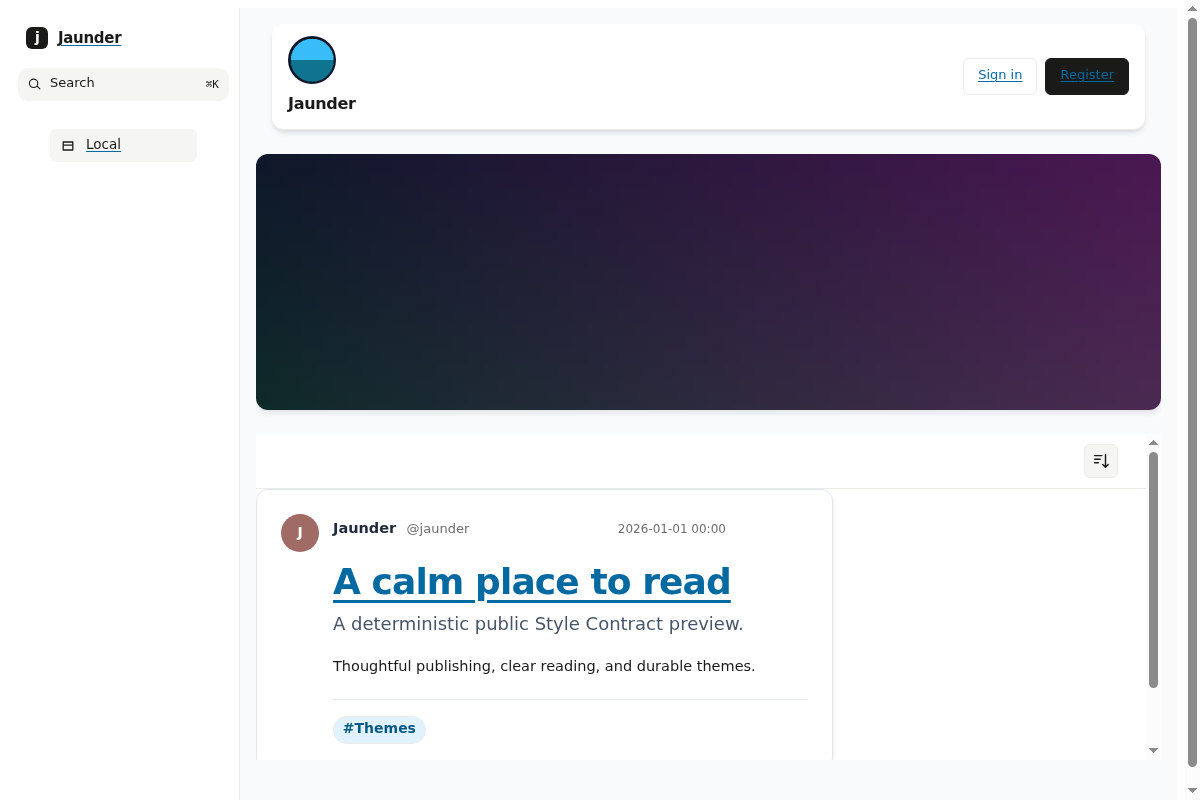
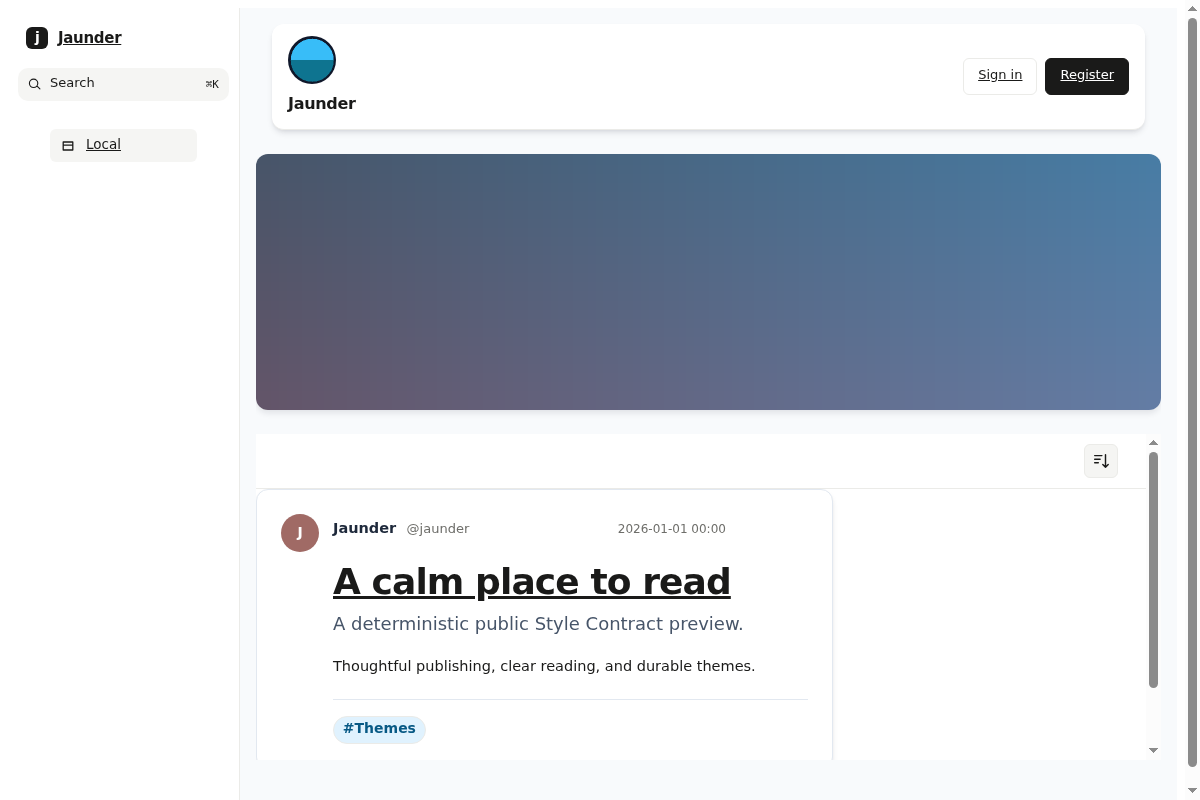
fix: preserve public control contrast

Changed region(s): [[0.2158, 0.1875, 0.9867, 0.5312], [0.2775, 0.7188, 0.6167, 0.7812], [0.8942, 0.0938, 0.925, 0.125]]

diff --git a/style.css b/style.css
@@ -1,1 +1,1 @@
-@font-face{font-family:TailwindInter;src:url(assets/inter-latin-regular.woff2);font-display:swap}:root{color:#1e293b;background:#f8fafc;min-height:100vh;font-family:TailwindInter;line-height:1.6}a{color:#0369a1;text-underline-offset:.16em;text-decoration-thickness:.08em}a:hover{color:#075985}a:focus-visible,button:focus-visible{outline-offset:3px;outline:3px solid #0284c7}[data-jaunder-part=masthead]{box-sizing:border-box;background:#fff;border-radius:.75rem;align-items:center;gap:1rem;width:min(100% - 2rem,64rem);min-height:4.5rem;margin:1rem auto 0;padding:.75rem 1rem;display:flex;box-shadow:0 4px 6px -1px #0f172a1a,0 2px 4px -2px #0f172a1a}[data-jaunder-part=logo]{object-fit:cover;border-radius:9999px;flex:none;width:3rem;height:3rem}[data-jaunder-part=site-title]{color:#0f172a;letter-spacing:-.025em;font-size:1.5rem;font-weight:700}[data-jaunder-part=primary-navigation]{flex-wrap:wrap;gap:.5rem 1rem;width:min(100% - 2rem,64rem);margin:.75rem auto;padding:0 1rem;display:flex}[data-jaunder-part=primary-navigation] a{font-size:.9375rem;font-weight:600}[data-jaunder-part=main]{box-sizing:border-box;width:min(100% - 2rem,64rem);margin:0 auto 3rem}[data-jaunder-part=header-image]{object-fit:cover;border-radius:.75rem;width:100%;max-height:16rem;margin:1.5rem 0;display:block;box-shadow:0 4px 6px -1px #0f172a1a}[data-jaunder-part=post-list]{gap:1.5rem;display:grid}[data-jaunder-part=post]{background:#fff;border:1px solid #e2e8f0;border-radius:.75rem;padding:1.5rem;overflow:visible;box-shadow:0 4px 6px -1px #0f172a1a,0 2px 4px -2px #0f172a1a}[data-jaunder-part=post-header]{color:#475569;flex-wrap:wrap;align-items:center;gap:.35rem .65rem;font-size:.875rem;display:flex}[data-jaunder-part=avatar]{object-fit:cover;border-radius:9999px;width:2rem;height:2rem}[data-jaunder-part=author-name]{color:#1e293b;font-weight:700}[data-jaunder-part=post-title]{color:#1e293b;letter-spacing:-.025em;margin:1rem 0 .5rem;font-size:clamp(1.75rem,4vw,2.25rem);line-height:1.15}[data-jaunder-part=post-summary]{color:#475569;margin:0 0 1rem;font-size:1.125rem}[data-jaunder-part=post-body]{color:#334155}[data-jaunder-part=post-body] :is(h1,h2,h3){color:#1e293b;margin:1.5em 0 .6em;line-height:1.25}[data-jaunder-part=post-body] :is(p,ul,ol,blockquote,pre){margin:1em 0}[data-jaunder-part=post-body] blockquote{color:#475569;border-left:.25rem solid #94a3b8;margin-left:0;padding-left:1rem}[data-jaunder-part=post-body] :is(code,pre){color:#0f172a;background:#e2e8f0;border-radius:.375rem;font-family:ui-monospace,monospace}[data-jaunder-part=post-body] code{padding:.15em .3em}[data-jaunder-part=post-body] pre{padding:1rem;overflow-x:auto}[data-jaunder-part=post-footer]{border-top:1px solid #e2e8f0;margin-top:1.25rem;padding-top:1rem}[data-jaunder-part=tag-list]{flex-wrap:wrap;gap:.5rem;margin:0;padding:0;list-style:none;display:flex}[data-jaunder-part=tag]{color:#075985;background:#e0f2fe;border-radius:9999px;padding:.2rem .55rem;font-size:.875rem;font-weight:600;display:inline-block}[data-jaunder-part=continuation]{color:#fff;cursor:pointer;background:#0284c7;border:0;border-radius:.5rem;justify-self:start;padding:.6rem 1rem;font-family:TailwindInter;font-weight:700}[data-jaunder-part=continuation]:hover{background:#0369a1}@media (min-width:48rem){[data-jaunder-part=post-list]{grid-template-columns:minmax(0,2fr) minmax(15rem,1fr)}[data-jaunder-part=post],[data-jaunder-part=continuation]{grid-column:1}}@media (prefers-color-scheme:dark){:root{color:#e2e8f0;background:#1f2937}a{color:#7dd3fc}a:hover{color:#bae6fd}[data-jaunder-part=masthead],[data-jaunder-part=post]{color:#e2e8f0;background:#374151;border-color:#4b5563}[data-jaunder-part=site-title],[data-jaunder-part=author-name]{color:#e2e8f0}[data-jaunder-part=post-title],[data-jaunder-part=post-title] a,[data-jaunder-part=post-body] :is(h1,h2,h3){color:#f1f5f9}[data-jaunder-part=post-summary],[data-jaunder-part=post-header]{color:#cbd5e1}[data-jaunder-part=post-body]{color:#d1d5db}[data-jaunder-part=post-body] :is(code,pre){color:#e2e8f0;background:#0f172a}[data-jaunder-part=tag]{color:#bae6fd;background:#164e63}}
+@font-face{font-family:TailwindInter;src:url(assets/inter-latin-regular.woff2);font-display:swap}:root{color:#1e293b;background:#f8fafc;min-height:100vh;font-family:TailwindInter;line-height:1.6}[data-jaunder-part=primary-navigation] a,[data-jaunder-part=post] a{color:#0369a1;text-underline-offset:.16em;text-decoration-thickness:.08em}[data-jaunder-part=primary-navigation] a:hover,[data-jaunder-part=post] a:hover{color:#075985}a:focus-visible,button:focus-visible{outline-offset:3px;outline:3px solid #0284c7}[data-jaunder-part=masthead]{box-sizing:border-box;background:#fff;border-radius:.75rem;align-items:center;gap:1rem;width:min(100% - 2rem,64rem);min-height:4.5rem;margin:1rem auto 0;padding:.75rem 1rem;display:flex;box-shadow:0 4px 6px -1px #0f172a1a,0 2px 4px -2px #0f172a1a}[data-jaunder-part=logo]{object-fit:cover;border-radius:9999px;flex:none;width:3rem;height:3rem}[data-jaunder-part=site-title]{color:#0f172a;letter-spacing:-.025em;font-size:1.5rem;font-weight:700}[data-jaunder-part=primary-navigation]{flex-wrap:wrap;gap:.5rem 1rem;width:min(100% - 2rem,64rem);margin:.75rem auto;padding:0 1rem;display:flex}[data-jaunder-part=primary-navigation] a{font-size:.9375rem;font-weight:600}[data-jaunder-part=main]{box-sizing:border-box;width:min(100% - 2rem,64rem);margin:0 auto 3rem}[data-jaunder-part=header-image]{object-fit:cover;border-radius:.75rem;width:100%;max-height:16rem;margin:1.5rem 0;display:block;box-shadow:0 4px 6px -1px #0f172a1a}[data-jaunder-part=post-list]{gap:1.5rem;display:grid}[data-jaunder-part=post]{background:#fff;border:1px solid #e2e8f0;border-radius:.75rem;padding:1.5rem;overflow:visible;box-shadow:0 4px 6px -1px #0f172a1a,0 2px 4px -2px #0f172a1a}[data-jaunder-part=post-header]{color:#475569;flex-wrap:wrap;align-items:center;gap:.35rem .65rem;font-size:.875rem;display:flex}[data-jaunder-part=avatar]{object-fit:cover;border-radius:9999px;width:2rem;height:2rem}[data-jaunder-part=author-name]{color:#1e293b;font-weight:700}[data-jaunder-part=post-title]{color:#1e293b;letter-spacing:-.025em;margin:1rem 0 .5rem;font-size:clamp(1.75rem,4vw,2.25rem);line-height:1.15}[data-jaunder-part=post-summary]{color:#475569;margin:0 0 1rem;font-size:1.125rem}[data-jaunder-part=post-body]{color:#334155}[data-jaunder-part=post-body] :is(h1,h2,h3){color:#1e293b;margin:1.5em 0 .6em;line-height:1.25}[data-jaunder-part=post-body] :is(p,ul,ol,blockquote,pre){margin:1em 0}[data-jaunder-part=post-body] blockquote{color:#475569;border-left:.25rem solid #94a3b8;margin-left:0;padding-left:1rem}[data-jaunder-part=post-body] :is(code,pre){color:#0f172a;background:#e2e8f0;border-radius:.375rem;font-family:ui-monospace,monospace}[data-jaunder-part=post-body] code{padding:.15em .3em}[data-jaunder-part=post-body] pre{padding:1rem;overflow-x:auto}[data-jaunder-part=post-footer]{border-top:1px solid #e2e8f0;margin-top:1.25rem;padding-top:1rem}[data-jaunder-part=tag-list]{flex-wrap:wrap;gap:.5rem;margin:0;padding:0;list-style:none;display:flex}[data-jaunder-part=tag]{color:#075985;background:#e0f2fe;border-radius:9999px;padding:.2rem .55rem;font-size:.875rem;font-weight:600;display:inline-block}[data-jaunder-part=continuation]{color:#fff;cursor:pointer;background:#0284c7;border:0;border-radius:.5rem;justify-self:start;padding:.6rem 1rem;font-family:TailwindInter;font-weight:700}[data-jaunder-part=continuation]:hover{background:#0369a1}@media (min-width:48rem){[data-jaunder-part=post-list]{grid-template-columns:minmax(0,2fr) minmax(15rem,1fr)}[data-jaunder-part=post],[data-jaunder-part=continuation]{grid-column:1}}@media (prefers-color-scheme:dark){:root{color:#e2e8f0;background:#1f2937}[data-jaunder-part=primary-navigation] a,[data-jaunder-part=post] a{color:#7dd3fc}[data-jaunder-part=primary-navigation] a:hover,[data-jaunder-part=post] a:hover{color:#bae6fd}[data-jaunder-part=masthead],[data-jaunder-part=post]{color:#e2e8f0;background:#374151;border-color:#4b5563}[data-jaunder-part=site-title],[data-jaunder-part=author-name]{color:#e2e8f0}[data-jaunder-part=post-title],[data-jaunder-part=post-title] a,[data-jaunder-part=post-body] :is(h1,h2,h3){color:#f1f5f9}[data-jaunder-part=post-summary],[data-jaunder-part=post-header]{color:#cbd5e1}[data-jaunder-part=post-body]{color:#d1d5db}[data-jaunder-part=post-body] :is(code,pre){color:#e2e8f0;background:#0f172a}[data-jaunder-part=tag]{color:#bae6fd;background:#164e63}}

diff --git a/src/theme.css b/src/theme.css
@@ -4,8 +4,10 @@
   color: #1e293b; background: #f8fafc; font-family: TailwindInter;
   line-height: 1.6; min-height: 100vh;
 }
-a { color: #0369a1; text-decoration-thickness: .08em; text-underline-offset: .16em; }
-a:hover { color: #075985; }
+[data-jaunder-part="primary-navigation"] a,
+[data-jaunder-part="post"] a { color: #0369a1; text-decoration-thickness: .08em; text-underline-offset: .16em; }
+[data-jaunder-part="primary-navigation"] a:hover,
+[data-jaunder-part="post"] a:hover { color: #075985; }
 a:focus-visible,
 button:focus-visible { outline: 3px solid #0284c7; outline-offset: 3px; }
 [data-jaunder-part="masthead"] { box-sizing: border-box; display: flex; align-items: center; gap: 1rem; width: min(100% - 2rem, 64rem); min-height: 4.5rem; margin: 1rem auto 0; padding: .75rem 1rem; border-radius: .75rem; background: #fff; box-shadow: 0 4px 6px -1px #0f172a1a, 0 2px 4px -2px #0f172a1a; }
@@ -35,4 +37,4 @@ button:focus-visible { outline: 3px solid #0284c7; outline-offset: 3px; }
 [data-jaunder-part="continuation"] { justify-self: start; padding: .6rem 1rem; border: 0; border-radius: .5rem; background: #0284c7; color: #fff; font-family: TailwindInter; font-weight: 700; cursor: pointer; }
 [data-jaunder-part="continuation"]:hover { background: #0369a1; }
 @media (min-width: 48rem) { [data-jaunder-part="post-list"] { grid-template-columns: minmax(0, 2fr) minmax(15rem, 1fr); } [data-jaunder-part="post"] { grid-column: 1; } [data-jaunder-part="continuation"] { grid-column: 1; } }
-@media (prefers-color-scheme: dark) { :root { color: #e2e8f0; background: #1f2937; } a { color: #7dd3fc; } a:hover { color: #bae6fd; } [data-jaunder-part="masthead"], [data-jaunder-part="post"] { color: #e2e8f0; background: #374151; border-color: #4b5563; } [data-jaunder-part="site-title"], [data-jaunder-part="author-name"] { color: #e2e8f0; } [data-jaunder-part="post-title"], [data-jaunder-part="post-title"] a, [data-jaunder-part="post-body"] :is(h1,h2,h3) { color: #f1f5f9; } [data-jaunder-part="post-summary"], [data-jaunder-part="post-header"] { color: #cbd5e1; } [data-jaunder-part="post-body"] { color: #d1d5db; } [data-jaunder-part="post-body"] :is(code,pre) { background: #0f172a; color: #e2e8f0; } [data-jaunder-part="tag"] { background: #164e63; color: #bae6fd; } }
+@media (prefers-color-scheme: dark) { :root { color: #e2e8f0; background: #1f2937; } [data-jaunder-part="primary-navigation"] a, [data-jaunder-part="post"] a { color: #7dd3fc; } [data-jaunder-part="primary-navigation"] a:hover, [data-jaunder-part="post"] a:hover { color: #bae6fd; } [data-jaunder-part="masthead"], [data-jaunder-part="post"] { color: #e2e8f0; background: #374151; border-color: #4b5563; } [data-jaunder-part="site-title"], [data-jaunder-part="author-name"] { color: #e2e8f0; } [data-jaunder-part="post-title"], [data-jaunder-part="post-title"] a, [data-jaunder-part="post-body"] :is(h1,h2,h3) { color: #f1f5f9; } [data-jaunder-part="post-summary"], [data-jaunder-part="post-header"] { color: #cbd5e1; } [data-jaunder-part="post-body"] { color: #d1d5db; } [data-jaunder-part="post-body"] :is(code,pre) { background: #0f172a; color: #e2e8f0; } [data-jaunder-part="tag"] { background: #164e63; color: #bae6fd; } }

diff --git a/PROVING-GROUND.md b/PROVING-GROUND.md
@@ -66,3 +66,20 @@ permission to pull-request packaging.
 inherits caller permissions; branch and pull-request callers grant only
 `contents: read`, while tag release callers grant `contents: write`. This
 repository pins both the reusable workflow and Jaunder binary to that commit.
+
+## 2026-09-17: public-control contrast
+
+**Observed Theme failure:** the first installed workflow artifact passed package
+validation but failed the route-level WCAG scan. Its broad authored `a` rule
+recolored Jaunder's Register control while retaining the control's dark
+background, producing a measured 2.93:1 ratio instead of the required 4.5:1.
+
+**Classification:** Theme authoring defect, not a Style Contract or compiler
+failure. The public surface intentionally includes Jaunder-owned navigation as
+well as Post content, so safe generic selectors can still create inaccessible
+combinations.
+
+**Resolution:** limit Theme link colors to links inside the semantic
+`primary-navigation` and `post` parts, regenerate `style.css` and `preview.png`,
+and repeat package, installation, and accessibility proof. This preserves the
+recognizable Tailwind link treatment without styling unrelated controls.
